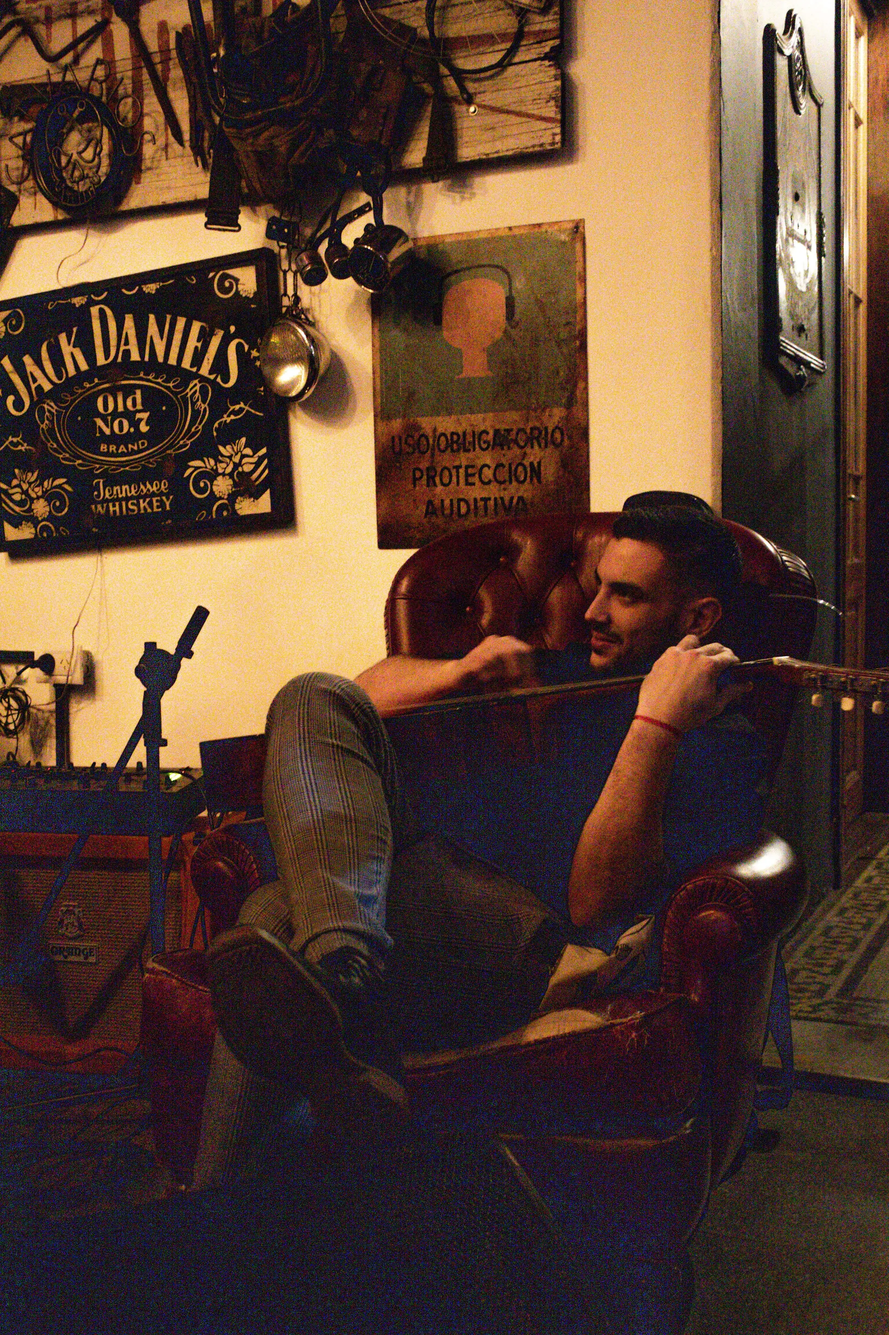
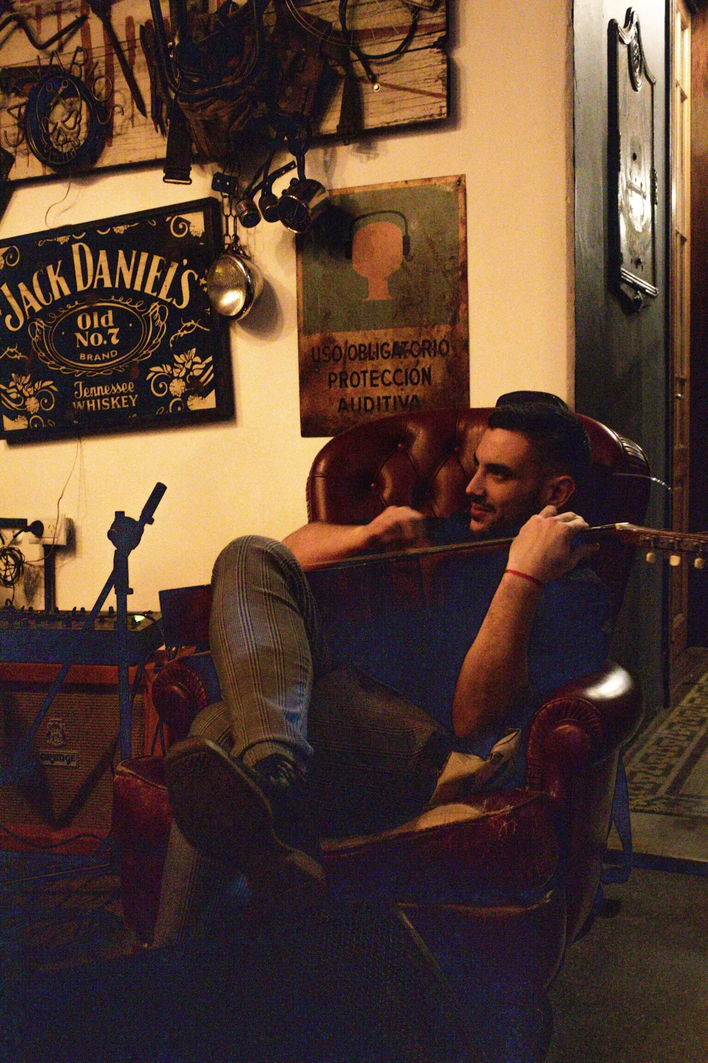
agregamos lazy loading a la galeria de fotos y reducimos mas el peso de las fotos

diff --git a/html/galeria.html b/html/galeria.html
@@ -144,9 +144,9 @@
   
     <section class="container-fotos-galeria col-12">
       <article class="grid-galeria">
-        <img class="galeria-img img1" src="../assets/img/imagenes/galeria.img/01 banda en garcia.webp" alt="banda en garcia">
-        <img class="galeria-img img2" src="../assets/img/imagenes/galeria.img/02 terra electrica sombrero.webp" alt="terra electrica sombrero">
-        <img class="galeria-img img3" src="../assets/img/imagenes/galeria.img/03 cuasi electrica.webp" alt="cuasi electrica">
+        <img class="galeria-img img1" src="../assets/img/imagenes/galeria.img/01 banda en garcia.webp" alt="banda en garcia" loading="lazy">
+        <img class="galeria-img img2" src="../assets/img/imagenes/galeria.img/02 terra electrica sombrero.webp" alt="terra electrica sombrero" loading="lazy">
+        <img class="galeria-img img3" src="../assets/img/imagenes/galeria.img/03 cuasi electrica.webp" alt="cuasi electrica" loading="lazy">
         <img class="galeria-img img4" src="../assets/img/imagenes/galeria.img/04 licha bw.webp" alt="licha bw" loading="lazy">
         <img class="galeria-img img5" src="../assets/img/imagenes/galeria.img/05 terra bw.webp" alt="terra bw" loading="lazy">
         <img class="galeria-img img6" src="../assets/img/imagenes/galeria.img/06 terra perfil.webp" alt="terra perfil" loading="lazy">
@@ -168,11 +168,9 @@
         <img class="galeria-img img26" src="../assets/img/imagenes/galeria.img/26 clavijero guitarra acustico.webp" alt="clavijero guitarra acustico" loading="lazy">
         <img class="galeria-img img28" src="../assets/img/imagenes/galeria.img/28 cuasi perfil acustico.webp" alt="perfil acustico" loading="lazy">
         <img class="galeria-img img29" src="../assets/img/imagenes/galeria.img/29 cuasi frente sx tocando.webp" alt="frente sx tocando.jpeg" loading="lazy">
-        <img class="galeria-img img30" src="../assets/img/imagenes/galeria.img/30 cuasi perfil tocando acustica.webp"
-          alt="tocando acustica" loading="lazy">
+        <img class="galeria-img img30" src="../assets/img/imagenes/galeria.img/30 cuasi perfil tocando acustica.webp" alt="tocando acustica" loading="lazy">
         <img class="galeria-img img32" src="../assets/img/imagenes/galeria.img/32 terra armonica acustico.webp" alt="armonica acustico" loading="lazy">
-        <img class="galeria-img img33" src="../assets/img/imagenes/galeria.img/33 terra cuasi previo al acustico.webp"
-          alt="terra cuasi previo al acustico" loading="lazy">
+        <img class="galeria-img img33" src="../assets/img/imagenes/galeria.img/33 terra cuasi previo al acustico.webp" alt="terra cuasi previo al acustico" loading="lazy">
       </article>
     </section>
   
